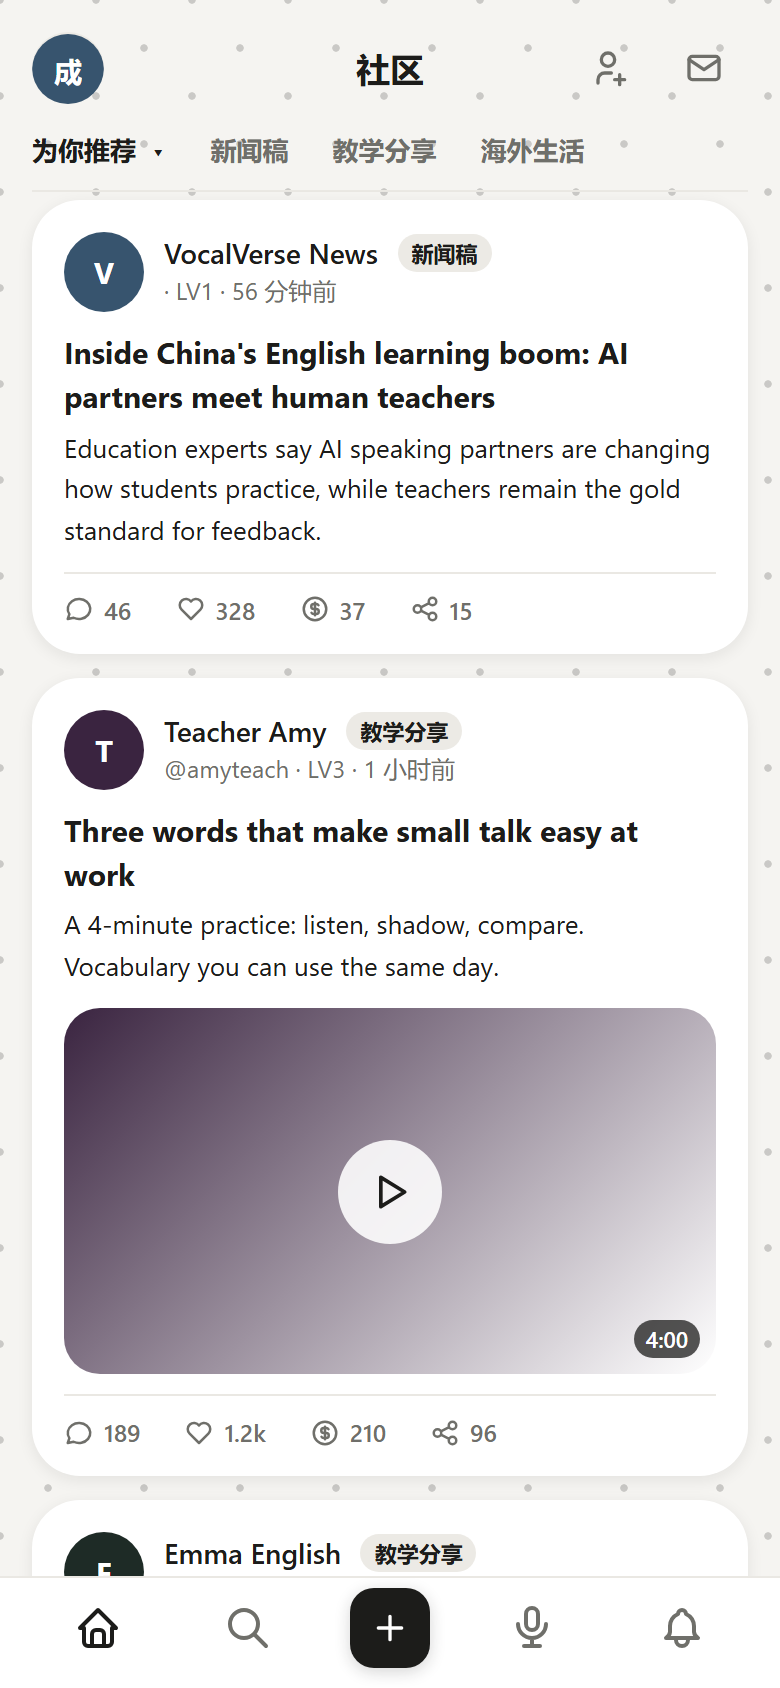
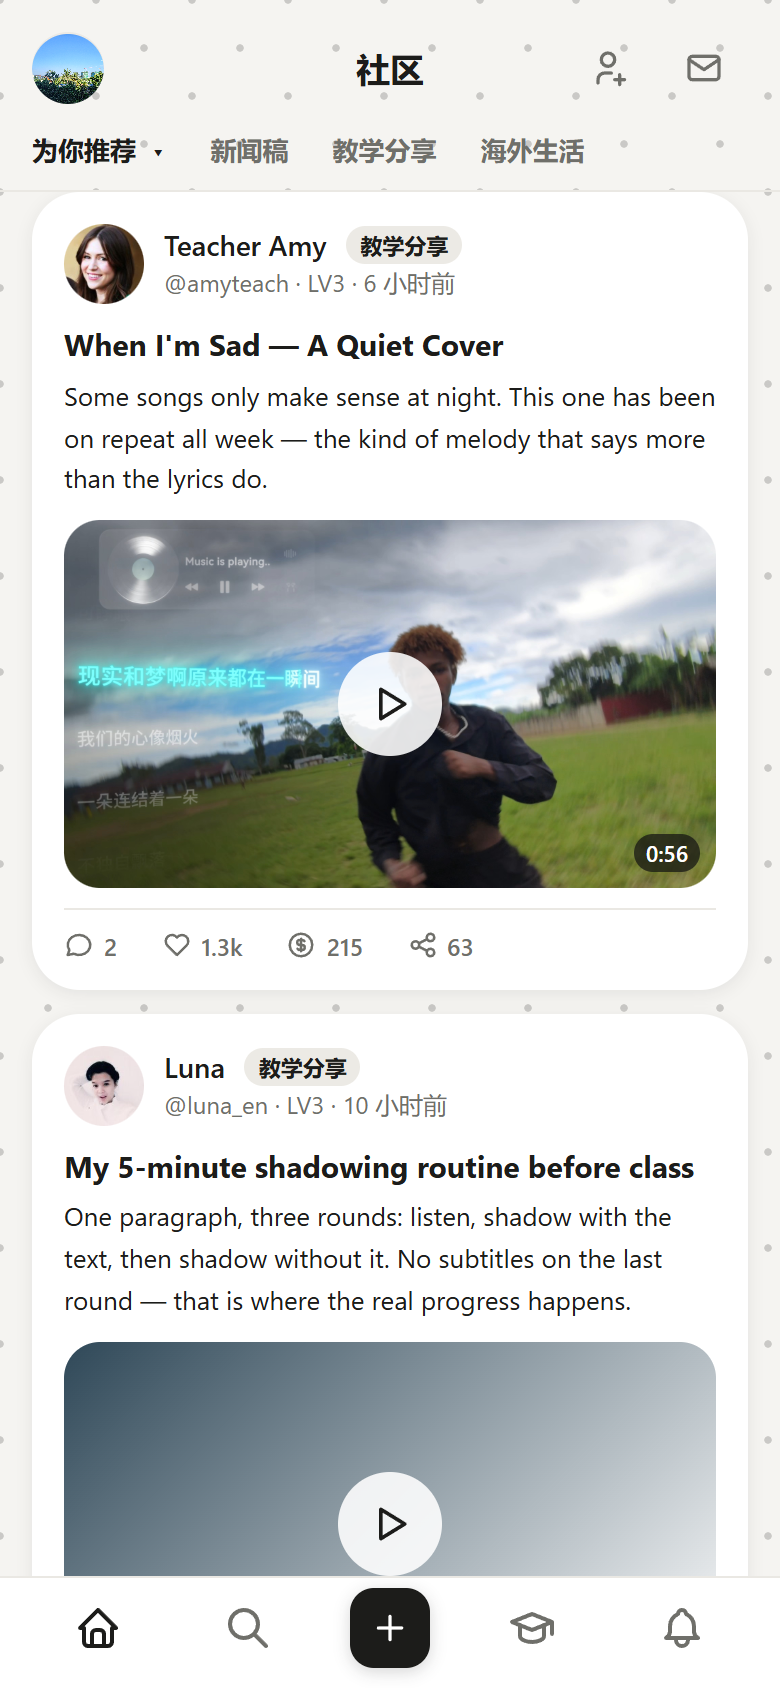
docs(worklog): 演示视频帖换真视频（凑企鹅）+ 附挂模式记录
署名 LHRCarrier。

diff --git a/worklog/VocalVerse工作日志.md b/worklog/VocalVerse工作日志.md
@@ -3,6 +3,20 @@
 > 团队可见的工作记录（入库）。负责维护：LHRCarrier（组长）；其他成员需补充时经 PR 追加到 `VocalVerse工作日志.md`。
 > 用途：按日记录项目关键改动、验证结果与踩坑；新记录追加在最上方。正式决策看 `docs/06-技术框架决策.md`（ADR 唯一权威）。
 
+## 2026-09-23 演示数据：Luna 占位视频帖换成真视频（B 站「凑企鹅」梗）· 1 op
+
+> 归属：演示数据（gitignored `local/演示数据/`；素材商用版权只本地）。用户口径：「把这个视频换成真视频，内容来点别样的，B站上搜索凑企鹅的视频放进来」。
+
+- **新增附挂模式**（`videos.json` + `seed_videos.py`）：`attach_slug` = 把视频挂到**已有帖子**上（替换 media、可选同步标题/正文），
+  不新建帖子、不动计数与时间；媒体注册仍走 `app.media.service.create`（幂等）。
+- **内容**：`BV1sowFzwEs8`（徐Toso「凑企鹅」梗，131s / 1820 万播放）→ 替换 Luna 的 `luna-shadowing-routine`（原为占位深色封面 + 假 3:07）；
+  标题/正文同步改英文（"When Your Study Break Turns into a Penguin Marathon" + 原创简介），计数（1 评 / 2 赞）与「11 小时前」时间戳保持不动。
+- **验证**：DB media 指向新视频（dur 131）；Playwright 打开 `/m/post/25` 实测 `<video>` 播放（duration 131、currentTime 前进、poster 在）；
+  连跑两次 seed 幂等（第二次「媒体已是该视频，跳过」）；截图 `local/演示数据/_验收截图/视频帖-凑企鹅.png`。
+- 真机：本次纯数据改动（前端零改动），APK 无需重打（gradle 全 up-to-date 已确认）；App 内刷新即可见。
+
+—— 执行人：LHRCarrier（AI 代工），2026-09-23
+
 ## 2026-09-23 `songs.instrumental_url` 伴奏轨字段（迁移 0023 + 契约快照）· 1 op
 
 > 归属：`songs` 内容库（Java 独占写）+ Python 契约。评分/选歌/提取链路零语义变化（纯播放字段）。
